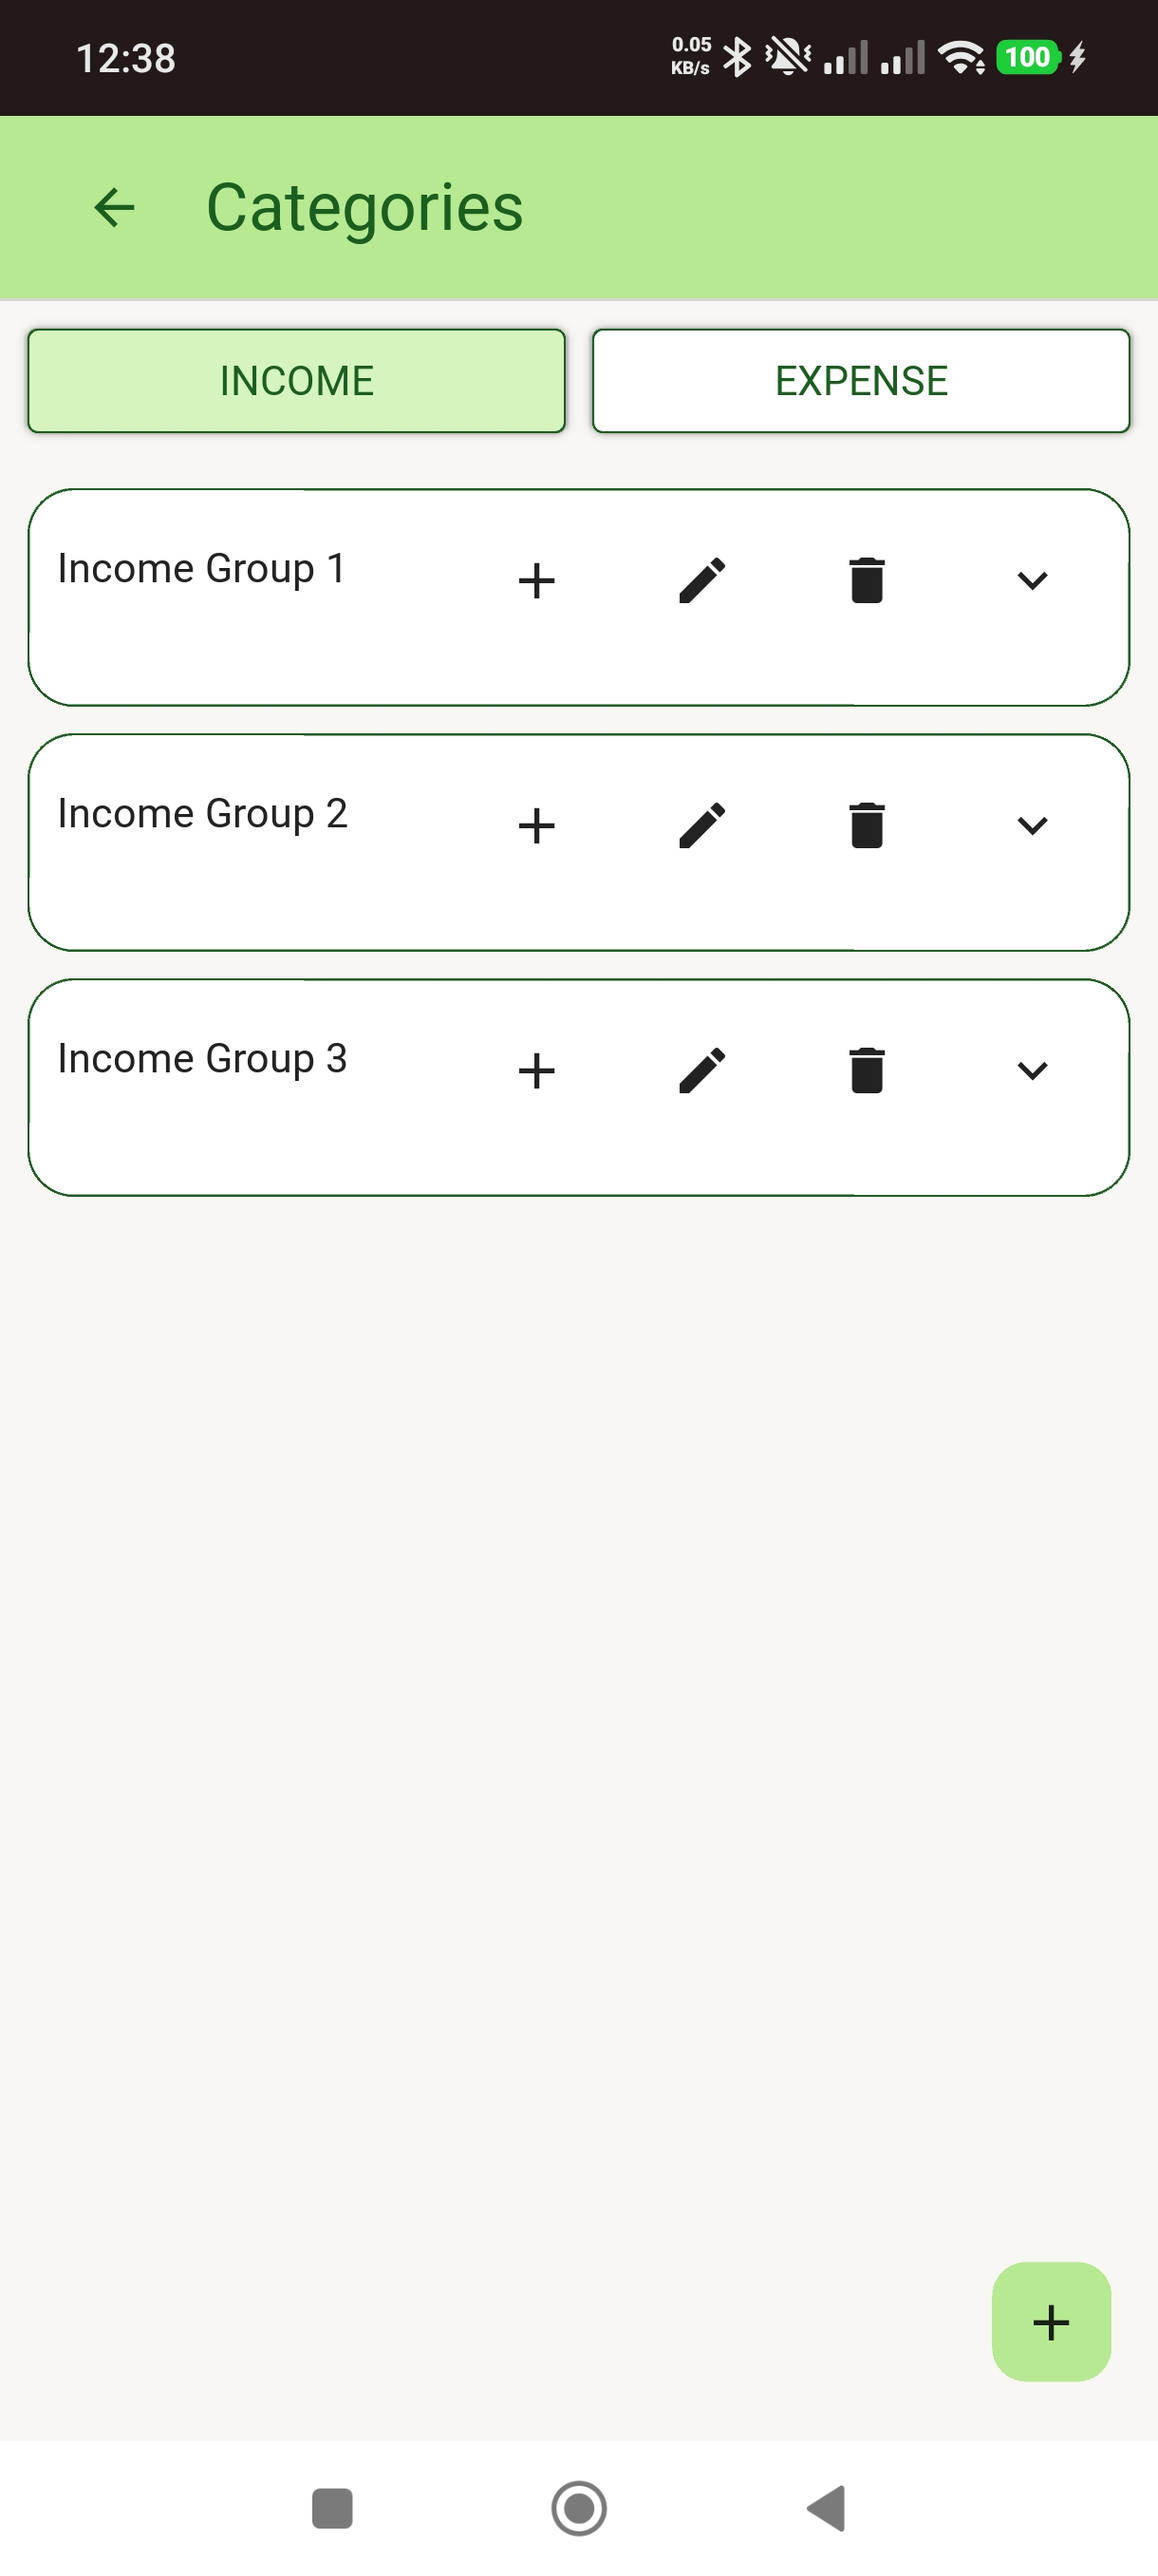
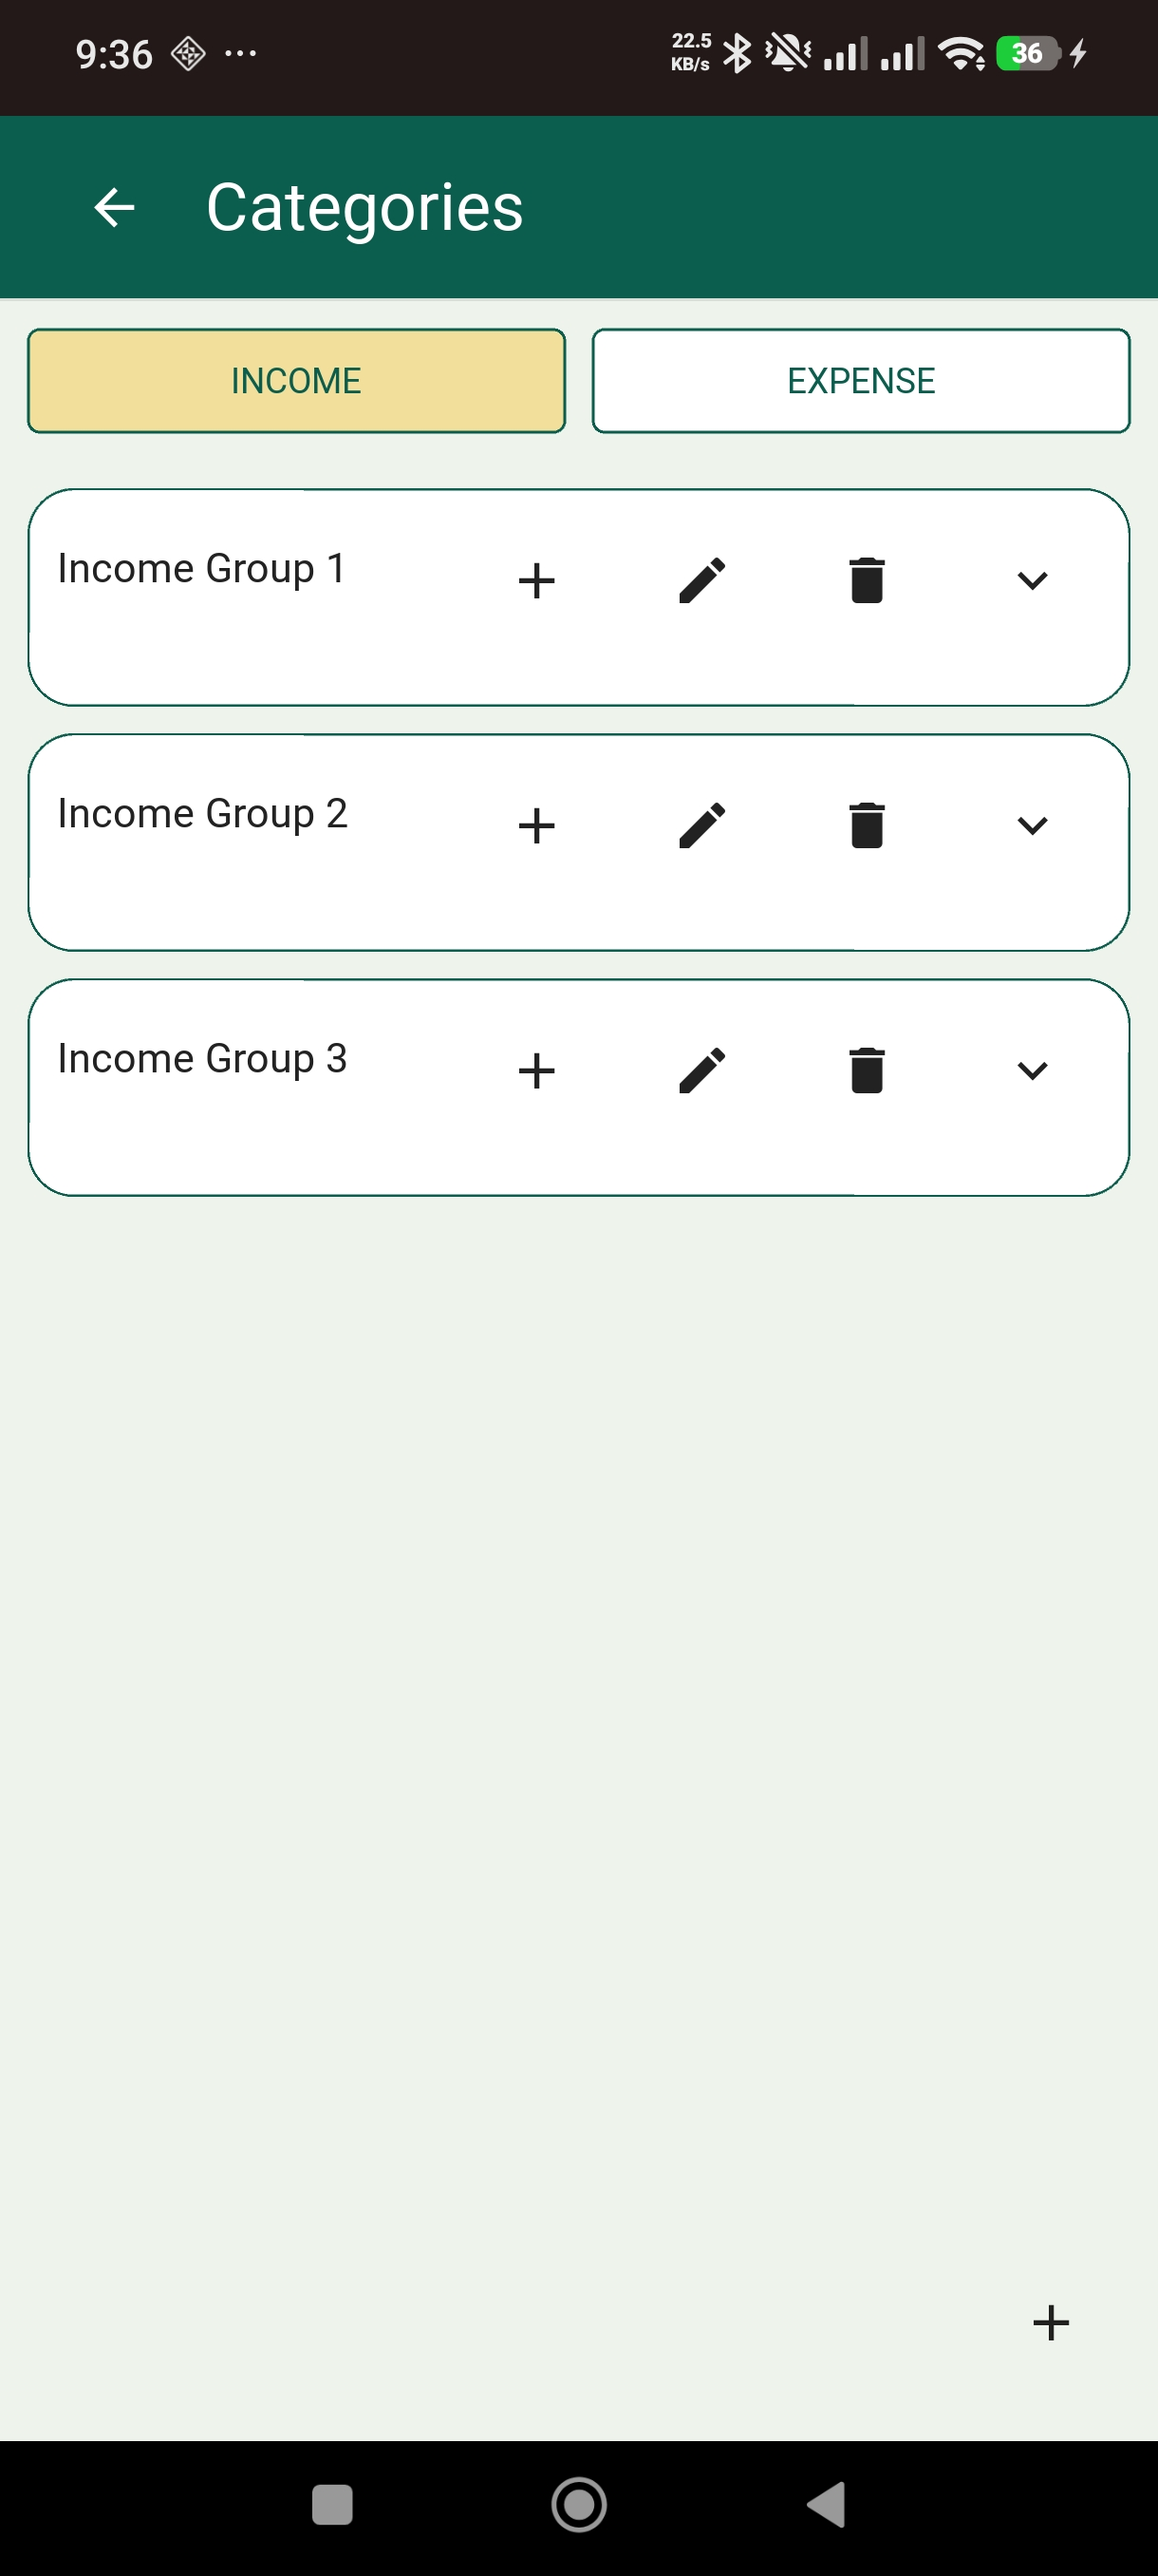
Complete Phase 1.3 UI standardization

Changed region(s): [[0.0, 0.0, 1.0, 0.1858], [0.0, 0.8673, 1.0, 1.0]]

diff --git a/README.md b/README.md
@@ -1,141 +1,126 @@
 # Enkryon
 
-A personal finance tracker mobile application built with **Python**, **Kivy**, **KivyMD**, and **SQLite**.
+A modern **offline-first personal finance tracker** built with **Python**, **Kivy**, **KivyMD**, and **SQLite**.
 
-Enkryon helps users manage their personal finances by tracking income and expenses, organizing categories, managing accounts, and viewing transaction history. The application focuses on a clean mobile UI with local data storage and offline functionality.
+Enkryon is an offline-first personal finance tracker that helps users record income and expenses, organize accounts and categories, and monitor their financial activity through a clean and intuitive interface.
 
----
-
-## Features
-
-## Dashboard
-
-- View current balance
-- View total income
-- View total expenses
-- Filter transactions by account
-- Quick access to application features
-
----
-
-## Transactions
-
-- Add income and expense transactions
-- Edit transactions
-- Delete transactions
-- Custom numeric keypad for entering amounts
-- Select:
-  - Account
-  - Category group
-  - Category
-- Add transaction notes
-- Date and time selection
-
----
-
-## Accounts
-
-- Create accounts
-- Rename accounts
-- Delete accounts
-- Prevent duplicate account names
-
----
-
-## Categories
-
-- Separate income and expense categories
-- Create category groups
-- Create categories under groups
-- Expand/collapse category groups
-- Rename category groups
-- Rename categories
-- Delete category groups
-- Delete categories
-- Prevent duplicate names
-
----
-
-## History
-
-- View all recorded transactions
-- Edit transactions
-- Delete transactions
-
----
-
-## Settings
-
-- Clear application data
+The application focuses on simplicity, local data privacy, and responsive mobile design.
 
 ---
 
 ## Screenshots
 
 ### Dashboard
-![Dashboard](assets/screenshots/dashboard/dashboard_populated.jpg)
+
+![Dashboard](assets/screenshots/dashboard/dashboard.jpg)
 
 ### Add Transaction
-![Add Transaction](assets/screenshots/transactions/add_transaction_filled.jpg)
+
+![Add Transaction](assets/screenshots/transactions/add_transaction.jpg)
 
 ### Transaction History
-![History](assets/screenshots/transactions/transaction_history.jpg)
+
+![Transaction History](assets/screenshots/transactions/transaction_history.jpg)
 
 ### Accounts
+
 ![Accounts](assets/screenshots/accounts/accounts_populated.jpg)
 
 ### Categories
-![Categories](assets/screenshots/categories/categories_populated_expanded.jpg)
+
+![Categories](assets/screenshots/categories/categories_populated.jpg)
+
+---
+
+## Features
+
+### Dashboard
+
+- View current balance
+- View total income
+- View total expenses
+- Filter dashboard by account
+- Quick access to common actions
+
+### Transactions
+
+- Add income transactions
+- Add expense transactions
+- Edit transactions
+- Delete transactions
+- Custom numeric keypad
+- Select account
+- Select category group
+- Select category
+- Add notes
+- Date and time selection
+
+### Accounts
+
+- Create accounts
+- Rename accounts
+- Delete accounts
+- Duplicate name validation
+
+### Categories
+
+- Separate income and expense categories
+- Category groups
+- Nested categories
+- Expand / collapse category groups
+- Rename category groups
+- Rename categories
+- Delete category groups
+- Delete categories
+- Duplicate name validation
+
+### Transaction History
+
+- View all transactions
+- Filter by transaction type
+- Edit transactions
+- Delete transactions
 
 ### Settings
-![Settings](assets/screenshots/settings/settings.jpg)
+
+- Clear all application data
 
 ---
 
-# APK Download
+## Download
 
-The Android APK is available through GitHub Releases.
+The latest Android APK is available from the GitHub Releases page.
 
-Download the latest version:
+Latest release:
 
 ```
-Releases → Enkryon-v0.2.0-alpha.1.apk
+Enkryon-v0.3.0-alpha.1.apk
 ```
 
 ---
 
-# Technologies Used
+## Technologies
 
-- Python 3
+- Python 3.13
 - Kivy 2.3.1
 - KivyMD 1.2.0
 - SQLite
 
 ---
 
-# Project Structure
+## Project Structure
 
 ```
 enkryon/
 
-├── database/
-│   └── SQLite repositories
-
-├── kv/
-│   └── Kivy UI layouts
-
-├── screens/
-│   └── Application screens
-
-├── widgets/
-│   └── Reusable UI components
-
-├── services/
-│   └── Application logic
-
-├── utils/
-│   └── Helper functions
-
+├── assets/          # Images, icons, screenshots
+├── database/        # SQLite repositories
+├── kv/              # Kivy UI layouts
+├── screens/         # Screen controllers
+├── services/        # Business logic
+├── tests/           # Automated tests
+├── utils/           # Helper utilities
+├── widgets/         # Reusable UI components
 ├── main.py
 ├── requirements.txt
 └── README.md
@@ -143,9 +128,9 @@ enkryon/
 
 ---
 
-# Database Design
+## Database
 
-The application uses SQLite for local data persistence.
+Enkryon uses **SQLite** for local data persistence.
 
 Stored data includes:
 
@@ -154,48 +139,60 @@ Stored data includes:
 - Categories
 - Transactions
 
-Database operations are separated using repository modules to keep database logic independent from UI code.
+Repository modules separate database operations from the user interface to improve maintainability and testing.
 
 ---
 
-# Android Installation
+## Installation
 
-Download the latest APK from the Releases section.
+Download the latest APK from **GitHub Releases**.
 
-Install the APK on an Android device to use the application.
+Install the APK on an Android device.
 
-> Note: Android may require enabling installation from unknown sources since the application is not distributed through the Play Store.
+> Android may require enabling installation from unknown sources because the application is not distributed through Google Play.
 
 ---
 
-# Future Improvements
+## Roadmap
 
-Planned features for future versions:
+### Completed
+
+- Dashboard
+- Transaction Management
+- Account Management
+- Category Management
+- Transaction History
+- Settings
+- Android APK
+
+### Planned
 
 - Transaction search
-- Advanced transaction filters
+- Advanced filters
 - Reports and charts
 - Budget tracking
-- Data export/import
+- Import / Export
 - Backup and restore
 - Cloud synchronization
-- Dark mode support
+- Dark mode
 
 ---
 
-# Development Notes
+## Highlights
 
-This project demonstrates:
-
-- Mobile application development using Python
-- CRUD operations
-- SQLite database management
-- UI development using KivyMD
-- Separation of UI, database, and business logic
-- Android application deployment
+- Built entirely with Python
+- Mobile-first interface using KivyMD
+- Offline-first architecture
+- SQLite local database
+- Repository pattern for database access
+- Reusable custom UI components
+- Automated tests
+- Android deployment using Buildozer
 
 ---
 
-# License
+## License
 
-This project is intended for educational and portfolio purposes.
+This project was developed for educational and portfolio purposes.
+
+It is not intended for commercial use.
